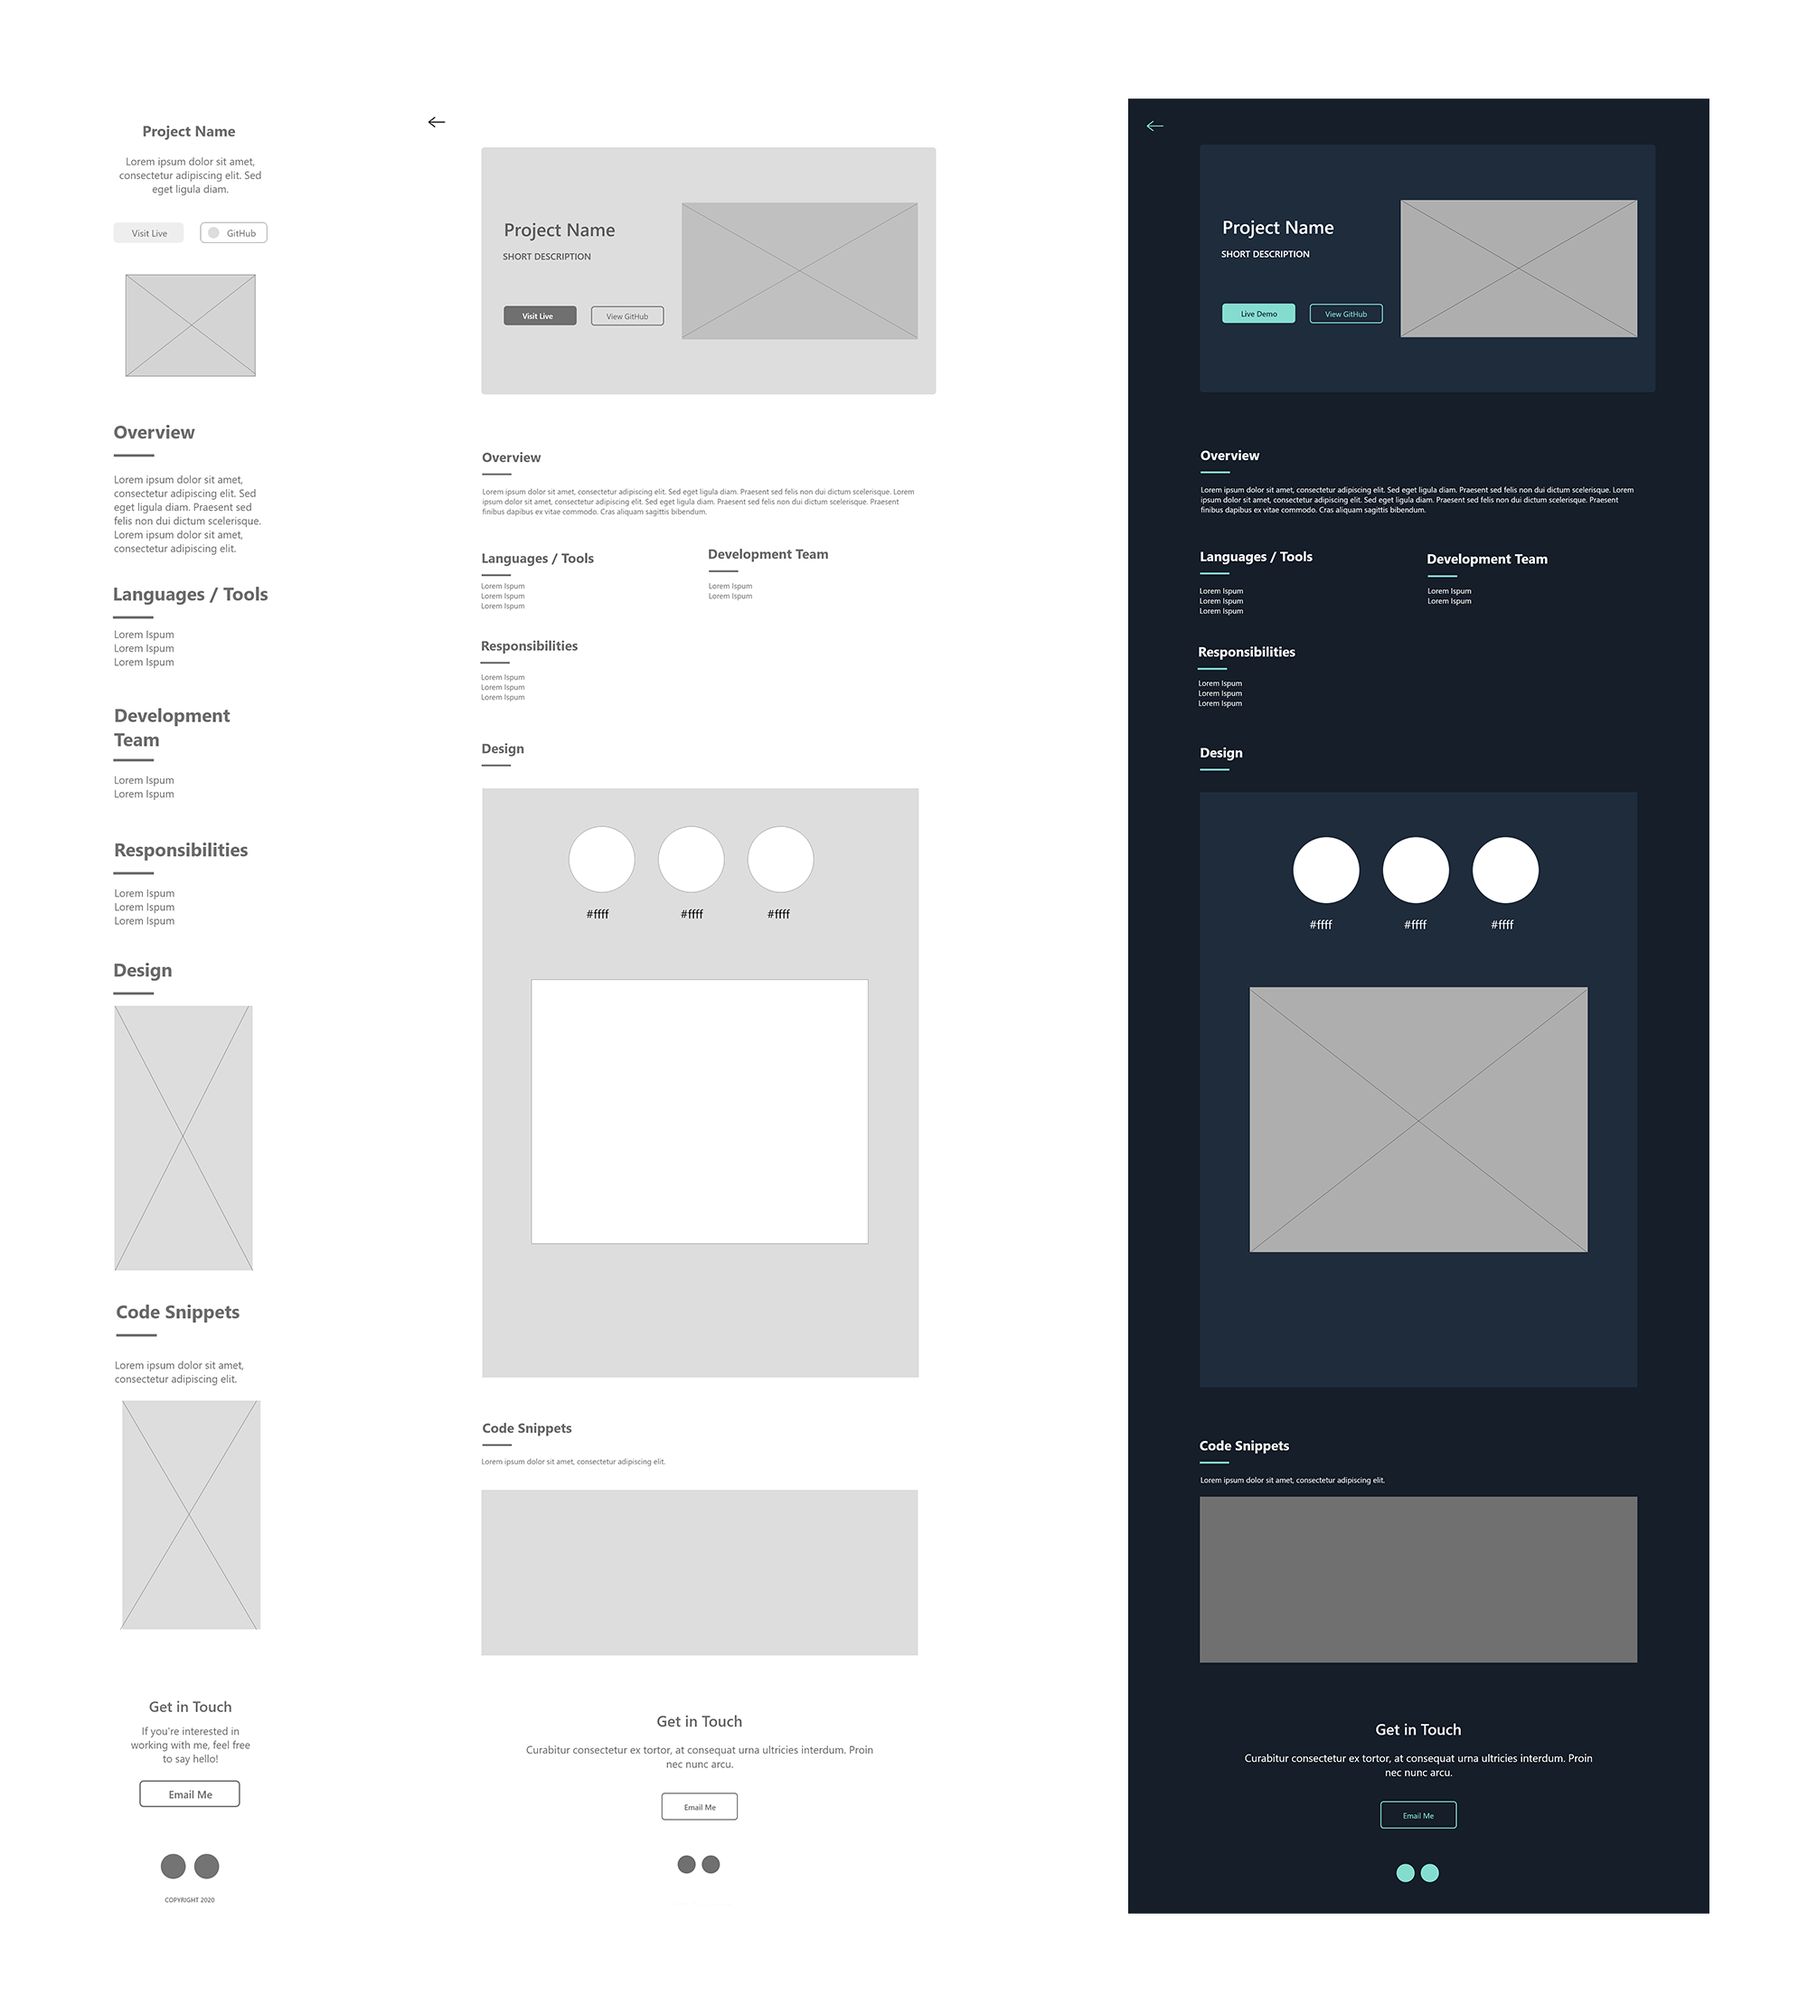
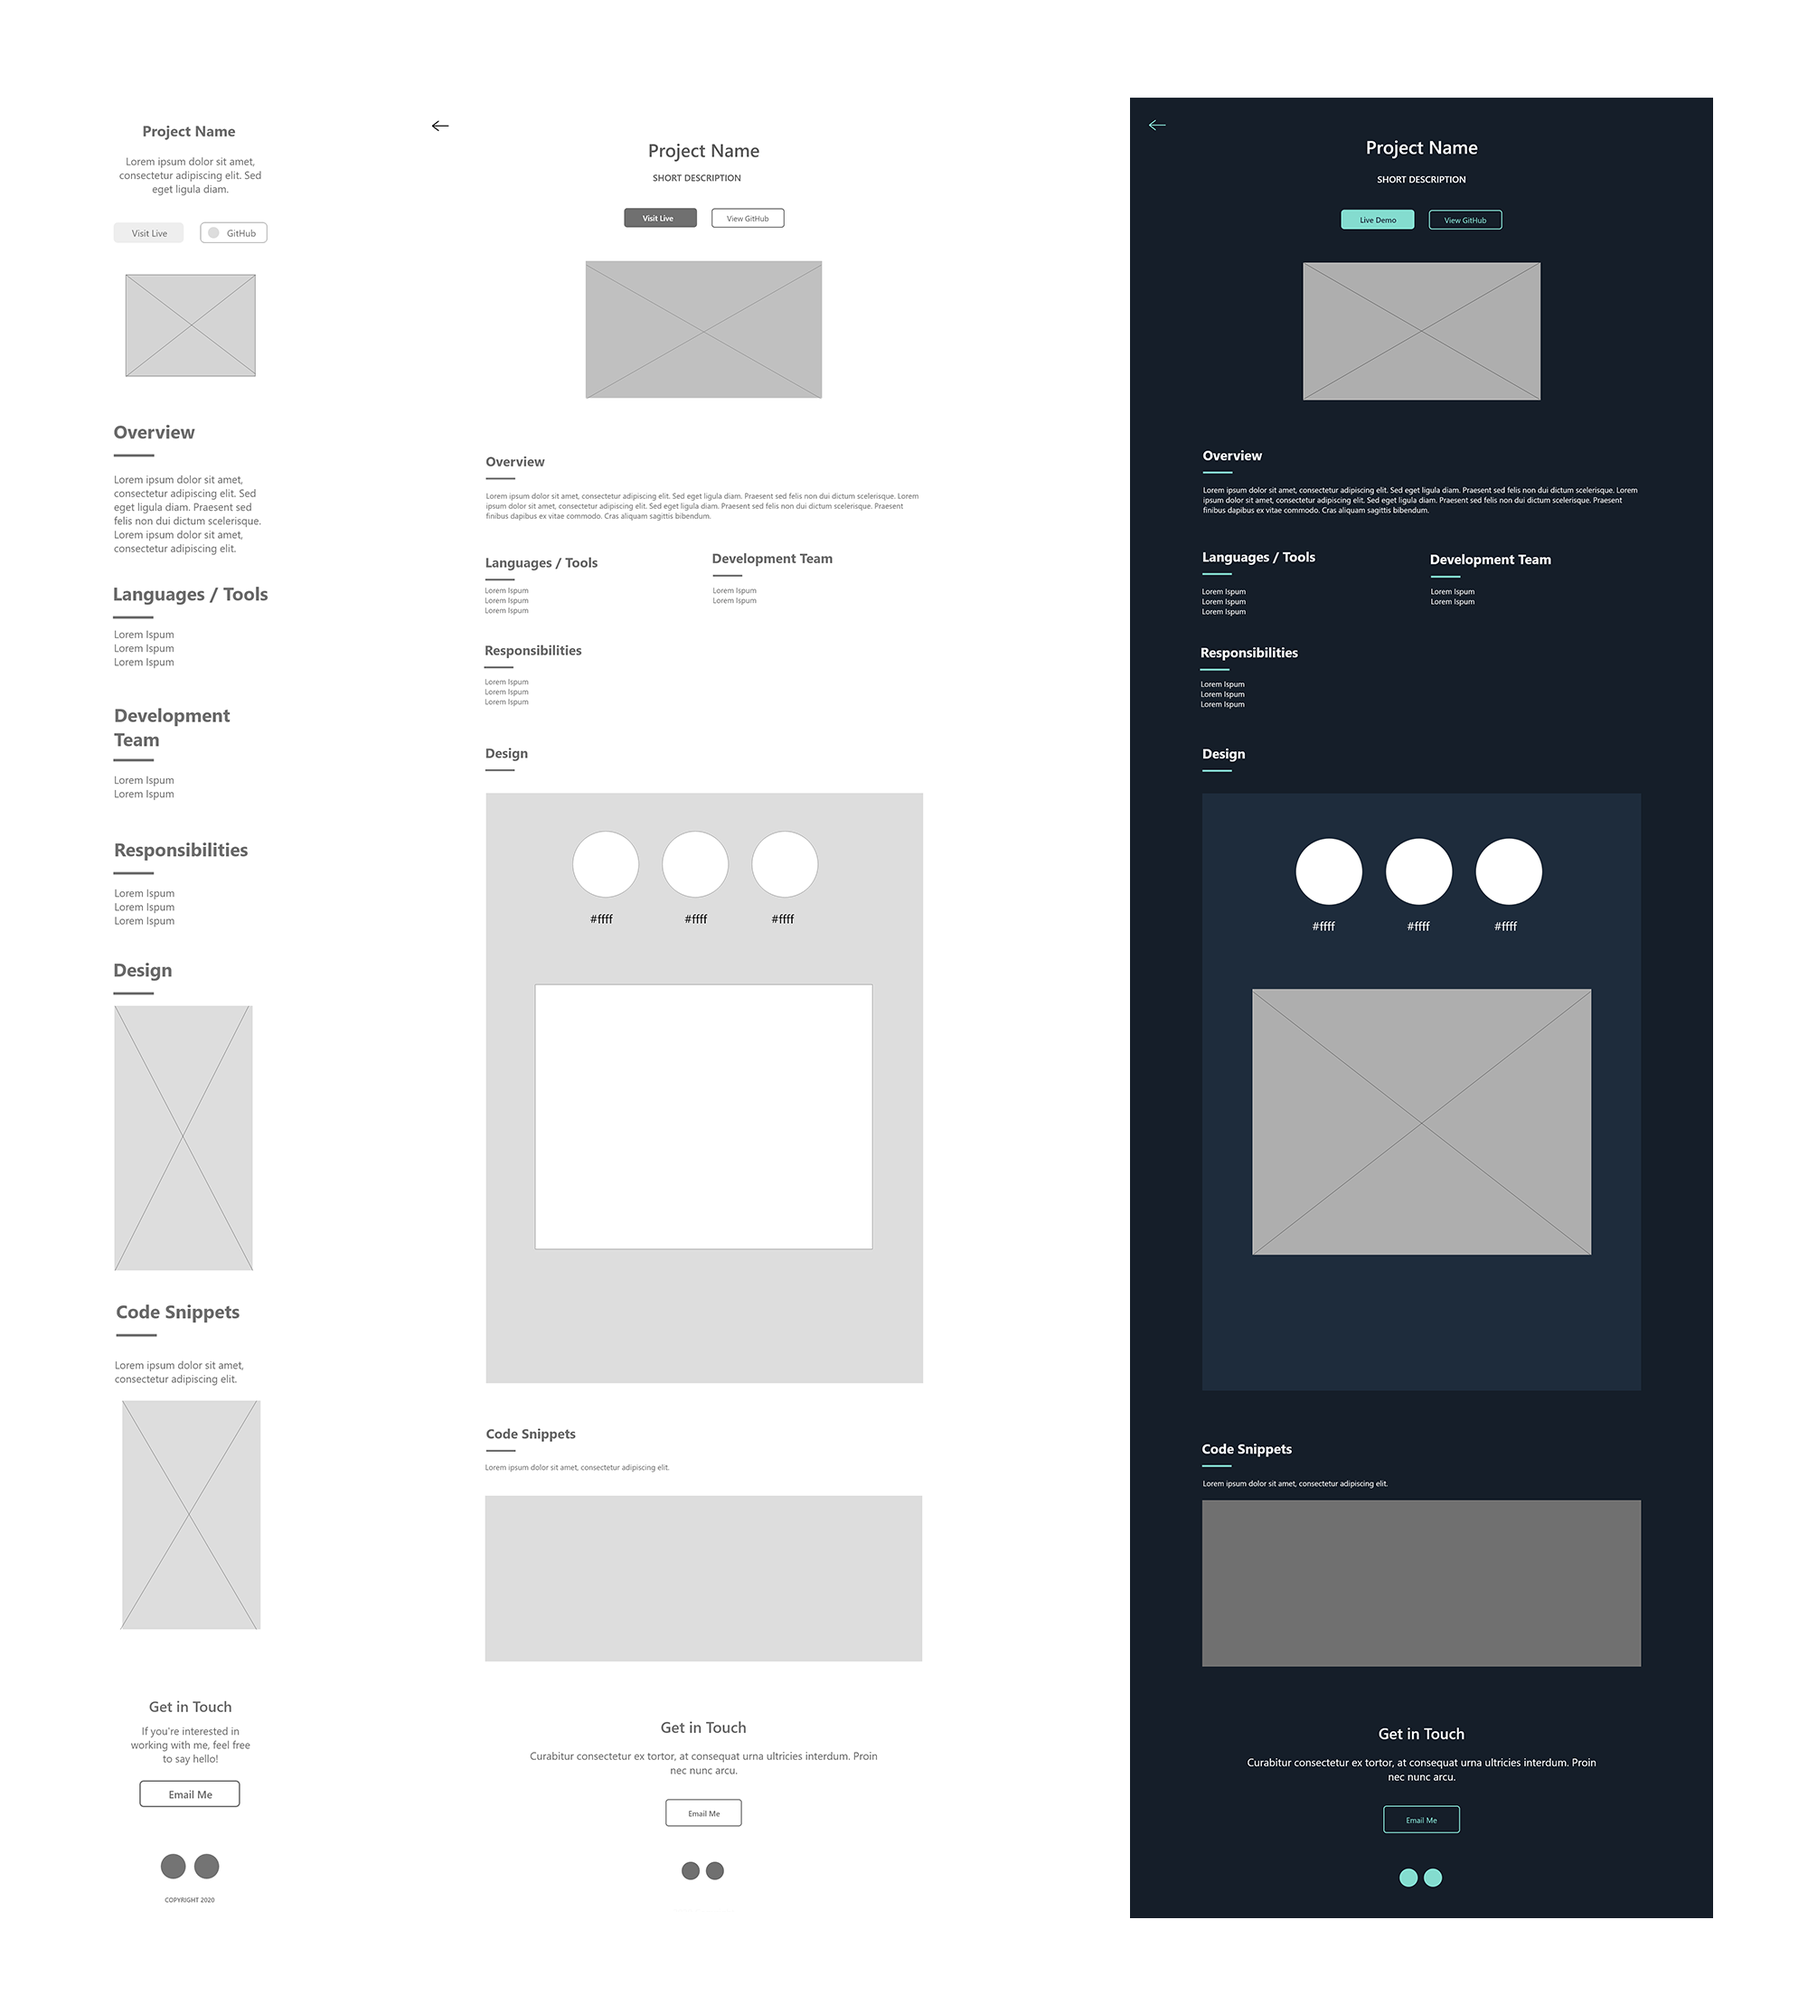
re-layout project page

diff --git a/src/styles/pages/_project.scss b/src/styles/pages/_project.scss
@@ -20,14 +20,6 @@
 .single-project {
     position: relative;
 
-    .feat-img {
-        
-        
-        // width: 100%;
-        // background-position: top;
-        // background-repeat: no-repeat;
-        // background-size: cover;
-    }
     .content {
         hr{
             margin-bottom: 20px;
@@ -116,28 +108,33 @@
             max-width: 1400px;
             margin: 0 auto;
         }
-
         .project-landing {
-            background-color:$blueShade;
-            display: flex;
-            align-items: center; 
-            border-radius: 10px;
-            height: 90vh;
+            max-width: 800px;
+            margin: 0 auto;
+            padding-top: 20px;
             margin-bottom: 70px;
+        }
+        // .project-landing {
+        //     background-color:$blueShade;
+        //     display: flex;
+        //     align-items: center; 
+        //     border-radius: 10px;
+        //     height: 90vh;
+        //     margin-bottom: 70px;
            
-            .project-headings{
-                text-align: left;
-                padding: 35px;
+        //     .project-headings{
+        //         text-align: left;
+        //         padding: 35px;
 
-                .project-buttons {
-                    text-align: left;
-                }
-            }
-            .feat-img {
-                height: 350px;
+        //         .project-buttons {
+        //             text-align: left;
+        //         }
+        //     }
+        //     .feat-img {
+        //         height: 350px;
 
-            }
-        } 
+        //     }
+        // } 
 
         .group{
             display: flex;

diff --git a/src/projects/ProjectShowtime.js b/src/projects/ProjectShowtime.js
@@ -3,8 +3,7 @@ import Project from '../pages/Project';
 import scHome from '../images/showtime/showtime-home.png';
 import scMovie from '../images/showtime/showtime-movie.png';
 import scMobile from '../images/showtime/screenshots-mobile.png';
-import scHomeMobile from '../images/showtime/showtime-home-mobile.png';
-import scMovieMobile from '../images/showtime/showtime-movie-mobile.png';
+import scSearch from '../images/showtime/showtime-search.png';
 import mockup from '../images/showtime/mockups/mockup.png';
 
 const ShowtimeCode = `
@@ -52,8 +51,8 @@ const projectInfo = [
         members: null,
         mockups: [mockup],
         colours: ['#ecc880', '#1C1C1C', '#f8f8f8'],
-        screenshots: [scMobile, scHome, scMovie],
-        codeDesc: 'In this code, I used useState and useEffect to set variables and fetch the API. First time using the React Hooks apporach',
+        screenshots: [scMobile, scHome, scSearch, scMovie],
+        codeDesc: 'In this code, I used React Hooks to set variables and fetch the movie API.',
         codeSnippets: ShowtimeCode,
         liveSite: 'http://dnguyen.bcitwebdeveloper.ca/movie-app/',
         github: 'https://github.com/dnguyen19/showtime',

diff --git a/src/pages/Home.js b/src/pages/Home.js
@@ -9,21 +9,14 @@ import NavMenu from '../components/NavMenu';
 const Home = (props) => {
 
     // first set to 0, then set it to scroll position
-    const initialPosition = props.position;
-    const [scrollPosition, setSrollPosition] = useState(initialPosition);
+    // const initialPosition = props.position;
+    // const [scrollPosition, setSrollPosition] = useState(initialPosition);
 
     useEffect(() => {
         
-        window.scrollTo(0, scrollPosition);
+        window.scrollTo(0, 0);
 
-    }, [scrollPosition]);
-
-
-    const handleNewPosition = (position) => {
-        setSrollPosition(position);
-        console.log(position);
-        console.log(scrollPosition);
-    }
+    }, []);
 
       
     return (
@@ -33,7 +26,7 @@ const Home = (props) => {
             <div className="page">
                <Landing/>
                 <div className="content">
-                    <Projects handlePosition={handleNewPosition}/>
+                    <Projects/>
                     <About/>
                 </div>
                 <Contact/>

diff --git a/src/components/Thumbnail.js b/src/components/Thumbnail.js
@@ -4,11 +4,6 @@ import Fade from 'react-reveal/Fade';
 
 const Thumbnail = (props) => {
 
-      const handleClick = () => {
-        var position = window.pageYOffset;
-        props.handlePosition(position);
-      }
-
     return (
         <Fade bottom>
             {props.projects.map((project, i) => (
@@ -25,7 +20,7 @@ const Thumbnail = (props) => {
                         <div className="desc-container">
                             <p className="desc">{project.desc}</p>
                             <br/>
-                            <Link to={project.link} className="more-details-link" onClick={handleClick}>More Details</Link>
+                            <Link to={project.link} className="more-details-link">More Details</Link>
                         </div>
                         
                     </div>

diff --git a/src/components/Projects.js b/src/components/Projects.js
@@ -43,14 +43,14 @@ const myProjects = [
 
 const Projects = (props) => {
     return (
-        <div>
+        <div id="projects">
             <Fade bottom>
                 <h1>Projects</h1>
                 <hr/>
             </Fade>
             
             <Thumbnail 
-               handlePosition={props.handlePosition} projects={myProjects}
+               projects={myProjects}
             />
                 
         </div>

diff --git a/src/components/NavMenu.js b/src/components/NavMenu.js
@@ -5,7 +5,7 @@ class NavMenu extends Component {
     
     handleClick(e, section) {
         e.preventDefault();
-        const anchor = document.querySelector(section)
+        const anchor = document.querySelector(section);
         anchor.scrollIntoView({ behavior: 'smooth', block: 'start' });
     }
 
